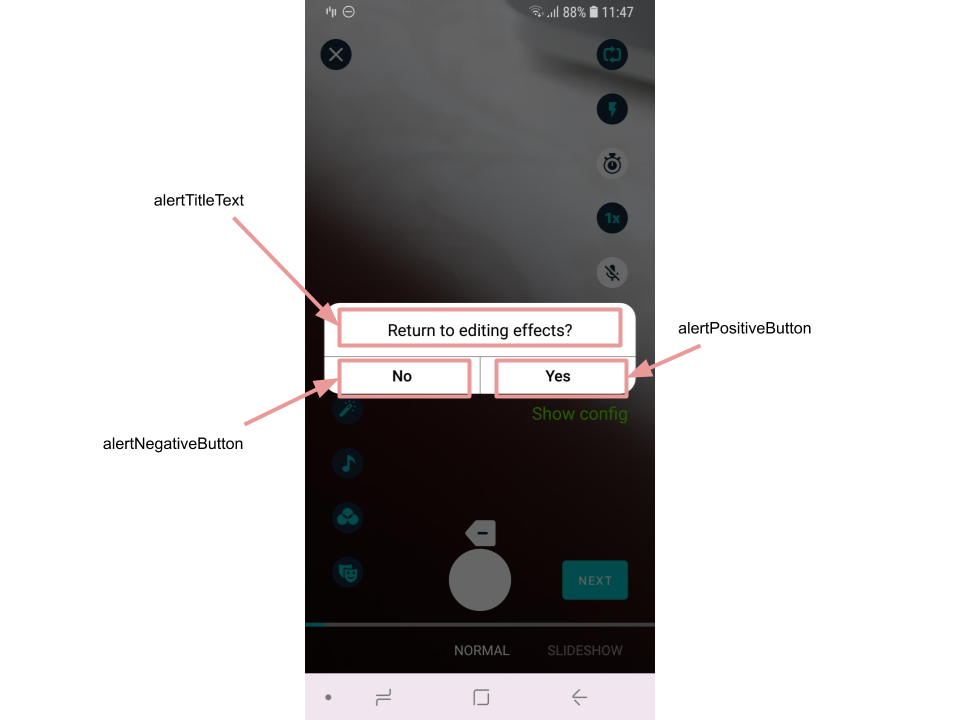
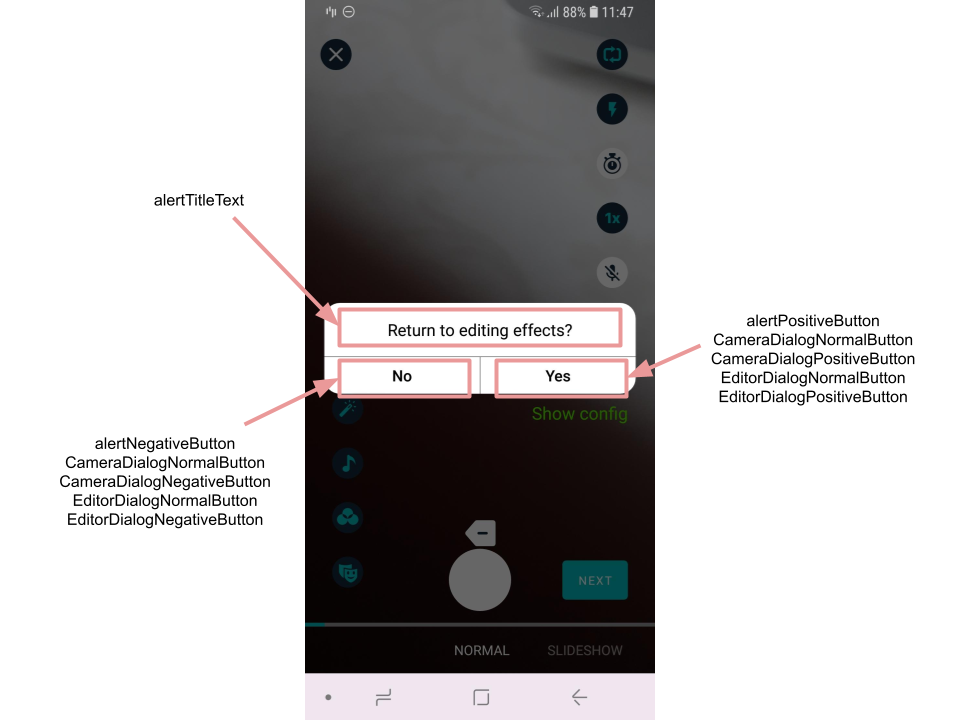
update doc for alert dialogs (#66)
* change button text colors

* update screenshot and description

Changed region(s): [[0.7188, 0.4278, 0.9688, 0.5806], [0.0625, 0.6111, 0.2812, 0.7333]]

diff --git a/mddocs/alert_styles.md b/mddocs/alert_styles.md
@@ -58,8 +58,17 @@ Info alerts are messages that are used to show information message to the user (
 | permission_dialog_allow | Allow | button title for simple confirmation from the user
 | permission_dialog_settings | Settings | button title for redirection to application settings (it is used in case the user did not granted permissions but still tries to make something unavailable without permission)
 
-### **Alert with control buttons**
-Recently to customize **alert dialogs with control buttons** you should override `fragment_dialog_alert.xml` file in layout resource folder. For correct implemetation all views' ids should be the same as in the original file:
+### **Alert with control buttons**  
+
+You can customize the whole appearance of these dialog or to change just text appearance of control buttons.
+
+To customize just **text appearance of control buttons** you should override following styles :
+- for camera screen - `CameraDialogNormalButton`, `CameraDialogPositiveButton`, `CameraDialogNegativeButton`
+- for other screens - `EditorNormalButton`, `EditorDialogPositiveButton`, `EditorDialogNegativeButton`
+
+*(check out relations between styles and buttons on the screenshot below)*
+
+To customize **the whole apperance** of alert dialogs with control buttons you should override `fragment_dialog_alert.xml` file in layout resource folder. For correct implemetation all views' ids should be the same as in the original file:
 
 - `alertTitleText` - for dialog description
 - `alertPositiveButton` - for the button meaning positive answer from the user (right button)
@@ -119,11 +128,12 @@ Every alert dialog has its own type within SDK. It allows to customize descripti
 
 Also there is a possibility to add custom icon for every alert dialog type. To setup drawables for this reason they should be passed into custom theme attributes:
 
-- [alert_camera_delete_video](https://github.com/Banuba/ve-sdk-android-integration-sample/blob/main/app/src/main/res/values/themes.xml#L50)
-- [alert_camera_return_to_editor](https://github.com/Banuba/ve-sdk-android-integration-sample/blob/main/app/src/main/res/values/themes.xml#L51)
-- [alert_camera_return_to_trimmer](https://github.com/Banuba/ve-sdk-android-integration-sample/blob/main/app/src/main/res/values/themes.xml#L52)
-- [alert_camera_save](https://github.com/Banuba/ve-sdk-android-integration-sample/blob/main/app/src/main/res/values/themes.xml#L53)
-- [alert_camera_reset_all](https://github.com/Banuba/ve-sdk-android-integration-sample/blob/main/app/src/main/res/values/themes.xml#L54)
-- [alert_editor_delete_voice_record](https://github.com/Banuba/ve-sdk-android-integration-sample/blob/main/app/src/main/res/values/themes.xml#L55)
-- [alert_editor_reset_all](https://github.com/Banuba/ve-sdk-android-integration-sample/blob/main/app/src/main/res/values/themes.xml#L56)
-- [alert_editor_reset_effects](https://github.com/Banuba/ve-sdk-android-integration-sample/blob/main/app/src/main/res/values/themes.xml#L57)
+- [alert_camera_return_to_camera](https://github.com/Banuba/ve-sdk-android-integration-sample/blob/main/app/src/main/res/values/themes.xml#L43)
+- [alert_camera_delete_video](https://github.com/Banuba/ve-sdk-android-integration-sample/blob/main/app/src/main/res/values/themes.xml#L44)
+- [alert_camera_return_to_editor](https://github.com/Banuba/ve-sdk-android-integration-sample/blob/main/app/src/main/res/values/themes.xml#L45)
+- [alert_camera_return_to_trimmer](https://github.com/Banuba/ve-sdk-android-integration-sample/blob/main/app/src/main/res/values/themes.xml#L46)
+- [alert_camera_save](https://github.com/Banuba/ve-sdk-android-integration-sample/blob/main/app/src/main/res/values/themes.xml#L47)
+- [alert_camera_reset_all](https://github.com/Banuba/ve-sdk-android-integration-sample/blob/main/app/src/main/res/values/themes.xml#L48)
+- [alert_editor_delete_voice_record](https://github.com/Banuba/ve-sdk-android-integration-sample/blob/main/app/src/main/res/values/themes.xml#L49)
+- [alert_editor_reset_all](https://github.com/Banuba/ve-sdk-android-integration-sample/blob/main/app/src/main/res/values/themes.xml#L50)
+- [alert_editor_reset_effects](https://github.com/Banuba/ve-sdk-android-integration-sample/blob/main/app/src/main/res/values/themes.xml#L51)
